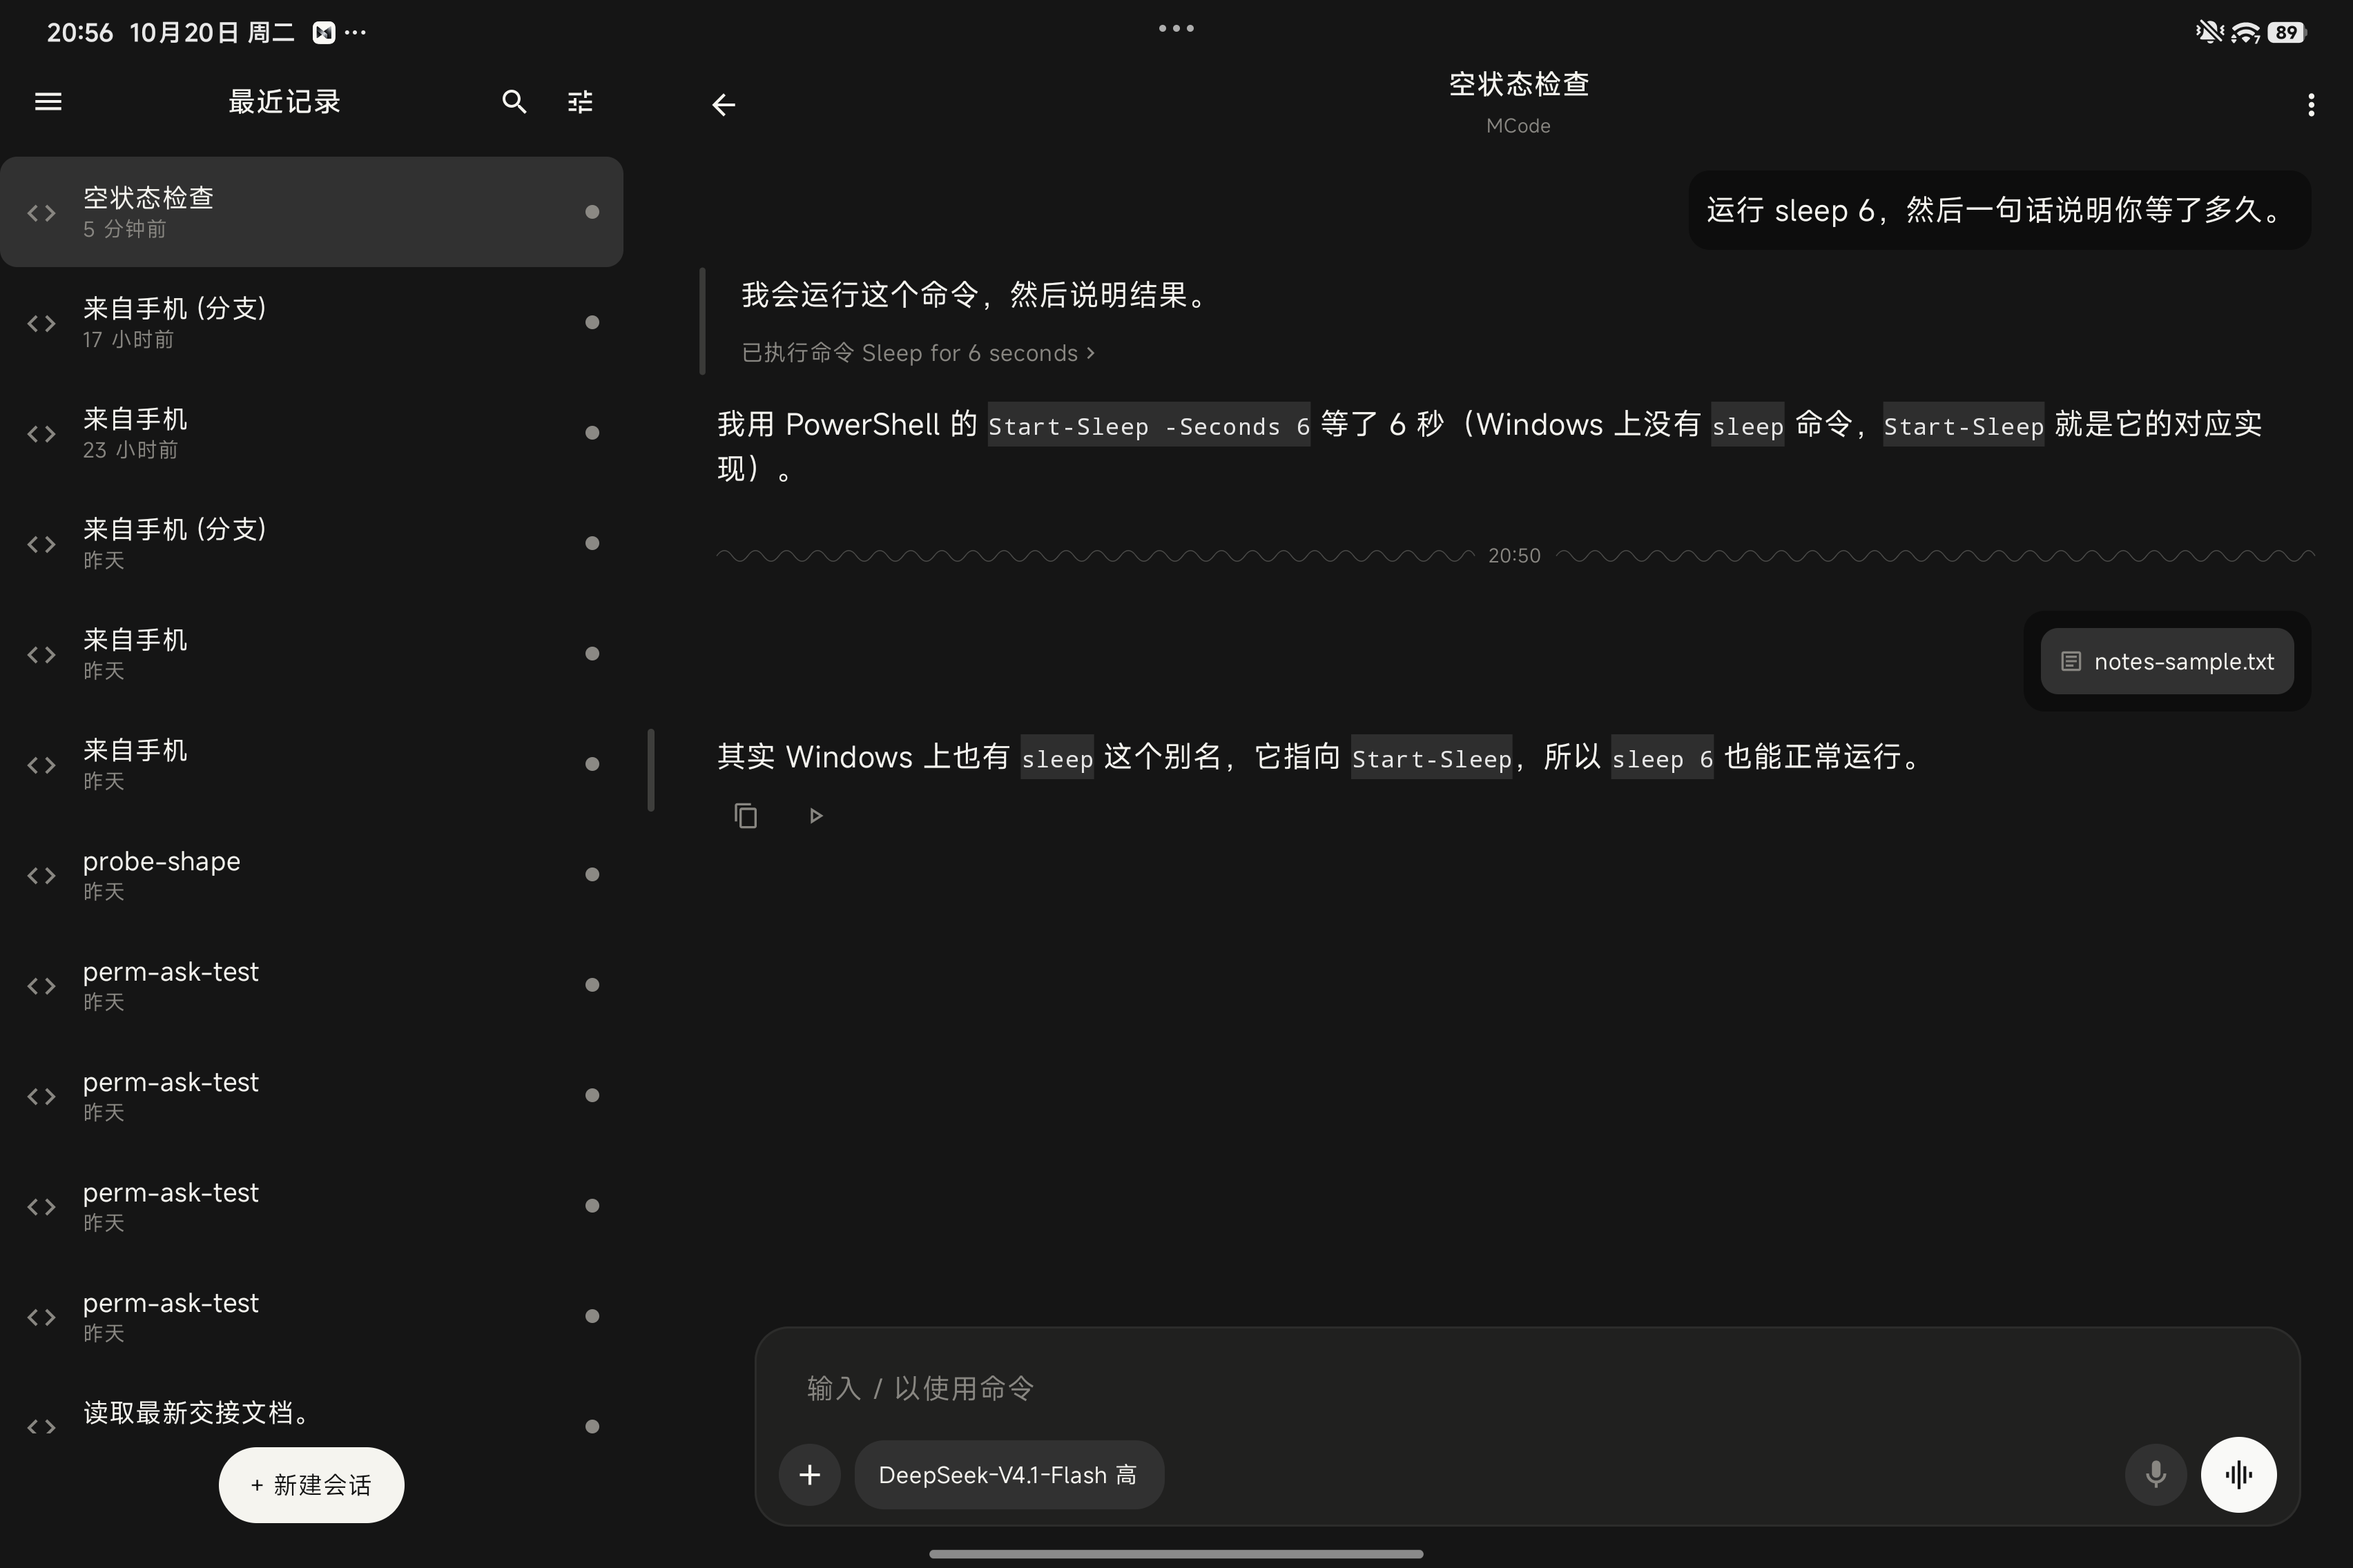
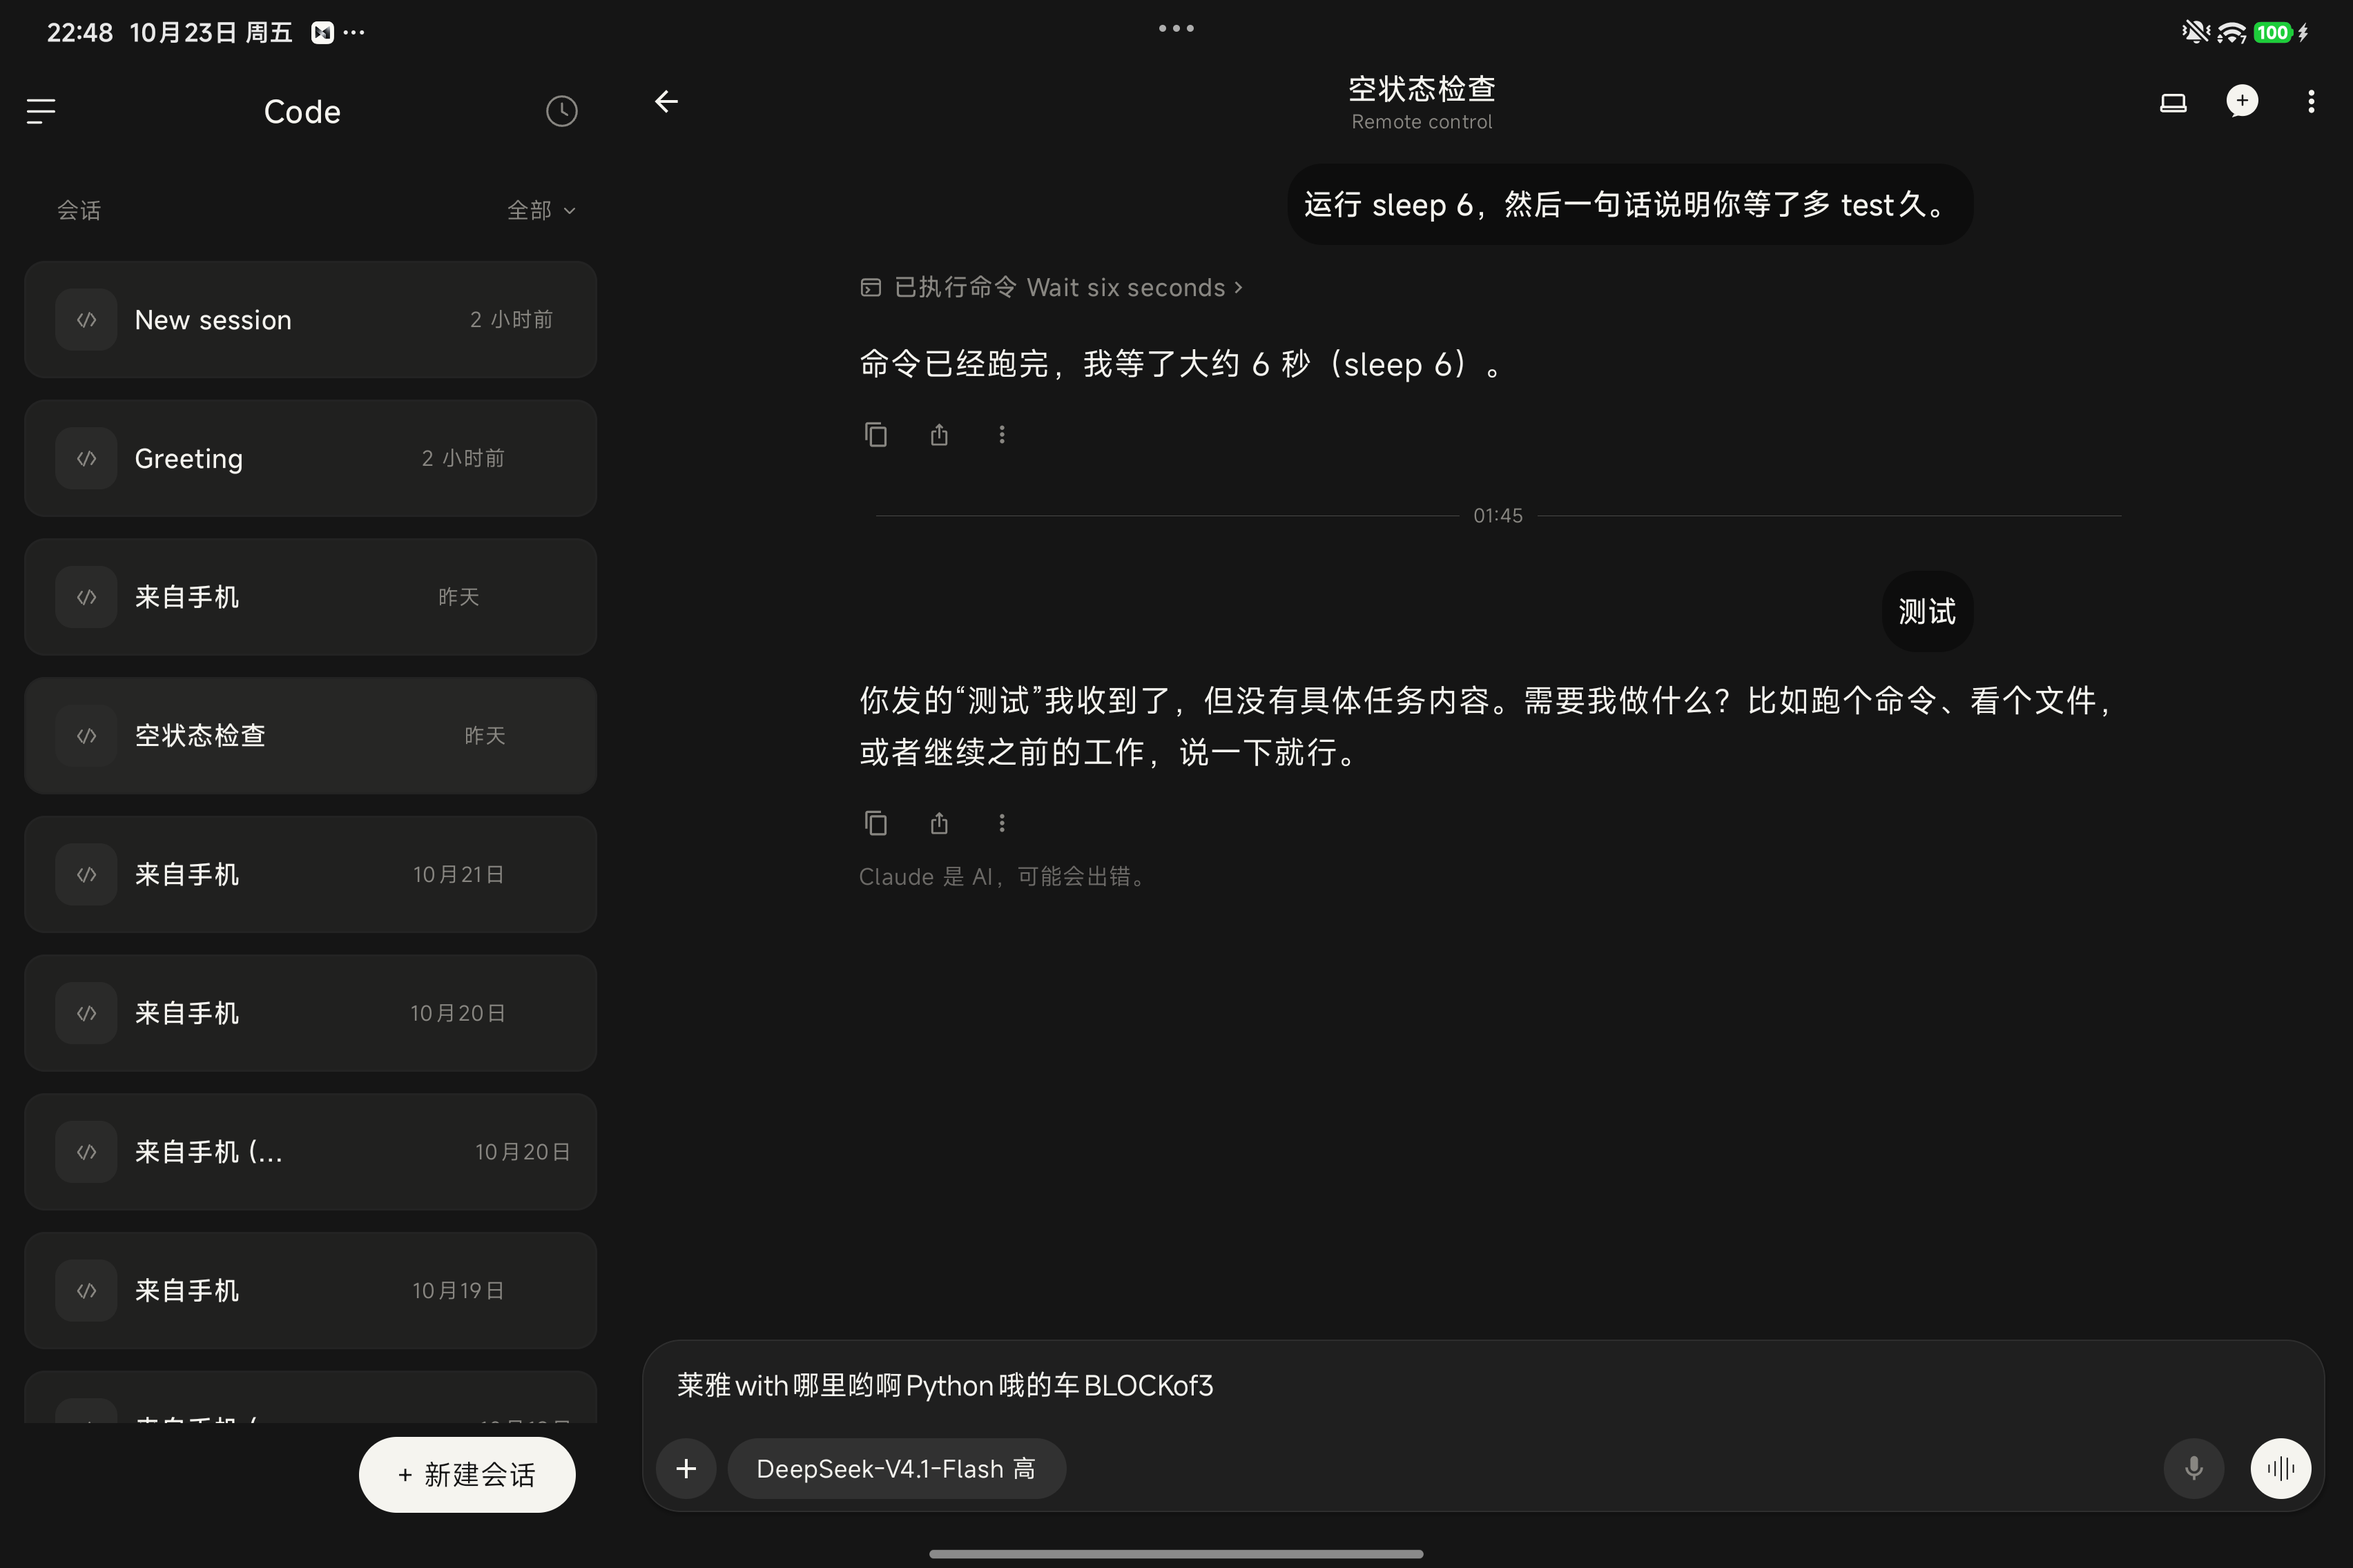
journal: white cards in the dark, and a number spent in the wrong box

diff --git a/.workbuddy/memory/2026-10-23.md b/.workbuddy/memory/2026-10-23.md
@@ -566,3 +566,44 @@ marks canvas 缩放的是**网格不是墨迹**。半径 9.4 在 24 网格里只
 侧栏（卡片+头部+状态）、输入框、顶栏、右栏标题、选区模块——**均已像素级对齐**。
 仍未做：消息区 turn 折叠（逻辑已存在且正确，只是当前会话工具少看不出效果）、
 深色主题、次要页面（项目/产物/定时/插件）。
+
+## 深色主题 + 空状态（第九十九轮）
+
+### 深色主题：卡片是白板
+
+切到夜间模式后，**侧栏每条会话都是一块白板**贴在 #151515 上。
+原因：`LocalCard` 系列只有默认值，**从未在主题里 provide**。
+`LocalField`/`LocalFieldLine` 都有 provide，唯独新增的卡片色漏了。
+
+真机一开夜间模式就看见，静态读代码不会发现。
+
+深色值来自 `claude_clean.png`（Claude 自己的深色屏）：
+
+| 项 | 值 |
+|---|---|
+| 页面 | `#151515` |
+| 卡片 | `#20201F` |
+| 边框 | `#232323` |
+| 图标块 | `#2A2A29` |
+| 文字 | `#F9F9F7` |
+| 弱化 | `#8A8A8A` |
+
+实测：页面 `(21,21,21)` ✓、卡片 `(32,32,31)` ✓。
+
+### 空状态：偏下且偏左
+
+定时任务空状态用 `padding(top = 393.dp)` —— 那是**全屏页面**量出来的值，
+却被用在一个「已被自己 header 顶下去」的 Column 里，结果偏下 60dp。
+
+参考件是**整屏居中**：水平中心 681.4 / 屏宽中心 681.6，垂直落在 449.6..473.2。
+改成 `weight(1f)` + `Arrangement.Center` 后实测 **178.6 / 面板中心 180.0**。
+
+### 同一个错误今天出现第二次
+
+**在一个盒子里量出的数字，拿到另一个盒子里用。**
+- 输入框 padding 116.4/106.8（另一个窗宽）
+- 空状态 top 393（全屏 → 面板内）
+- 右栏标题坐标（左栏的 x 当右栏）
+- 列表头 `searchTop`（同样量在别处）
+
+→ **凡是要复用测量值，先确认目标盒子的原点。**

diff --git a/.workbuddy/memory/MEMORY.md b/.workbuddy/memory/MEMORY.md
@@ -123,3 +123,11 @@
 - 整屏已对齐项：侧栏卡片(332×68)、图标块(36)、列表头(会话/全部)、
   左顶栏(Code+时钟)、右栏标题(Main+Remote control)、输入框(右边距10.4)、
   左栏比例(0.2641)、选区模块全部。
+- **新增的颜色 CompositionLocal 必须在主题里 provide**：`LocalCard` 系列只写了默认值，
+  深色下侧栏全是白板。加颜色时同时补 `if (dark) ... else ...`。
+- **复用测量值前先确认目标盒子的原点**（今天第 4 次同类错误）：
+  输入框 padding、空状态 top=393、右栏标题坐标、searchTop —— 全是「在 A 盒子量的，
+  拿到 B 盒子用」。数字本身没错，坐标系错了。
+- 深色主题实测值：页面 `#151515`、卡片 `#20201F`、边框 `#232323`、图标块 `#2A2A29`、
+  文字 `#F9F9F7`、弱化 `#8A8A8A`（取自 `claude_clean.png`）。
+- 空状态一律用 `weight(1f)` + `Arrangement.Center`，**不要用 padding-top 定位**。
